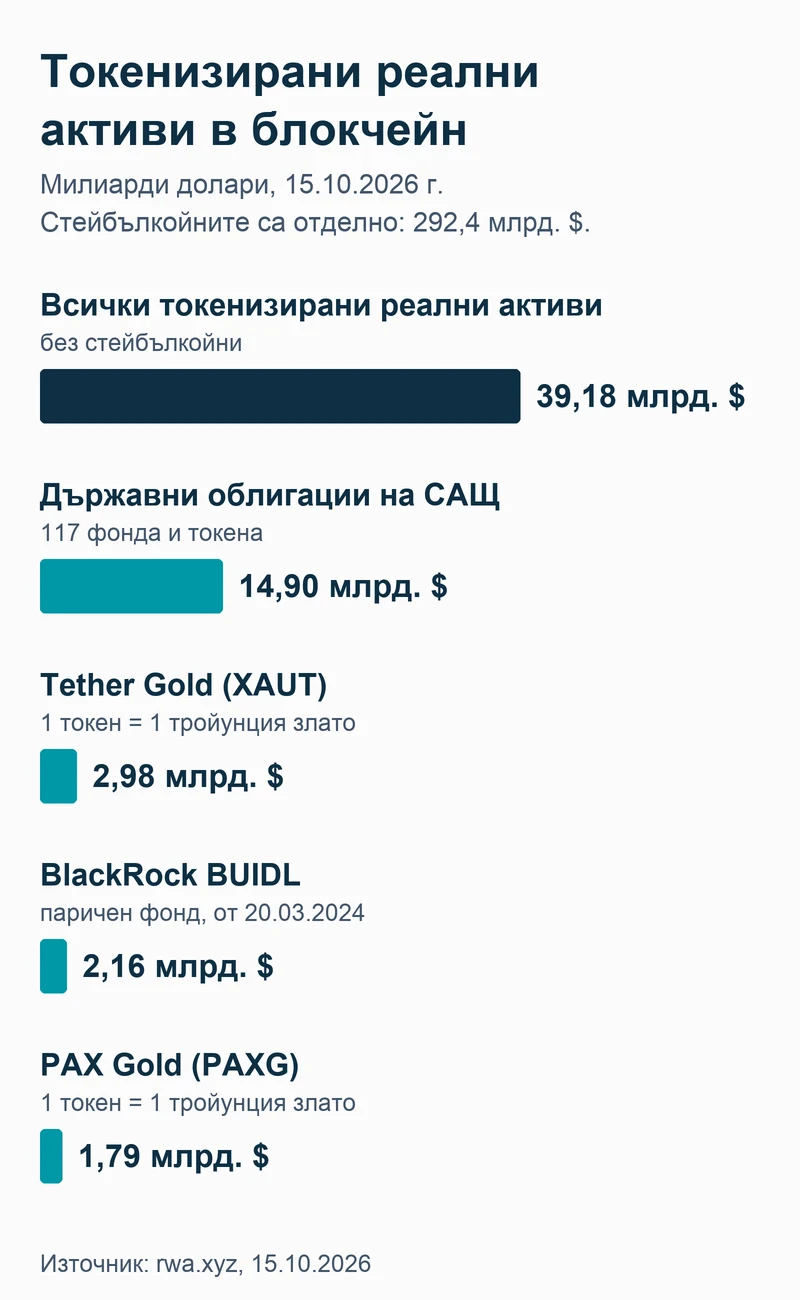
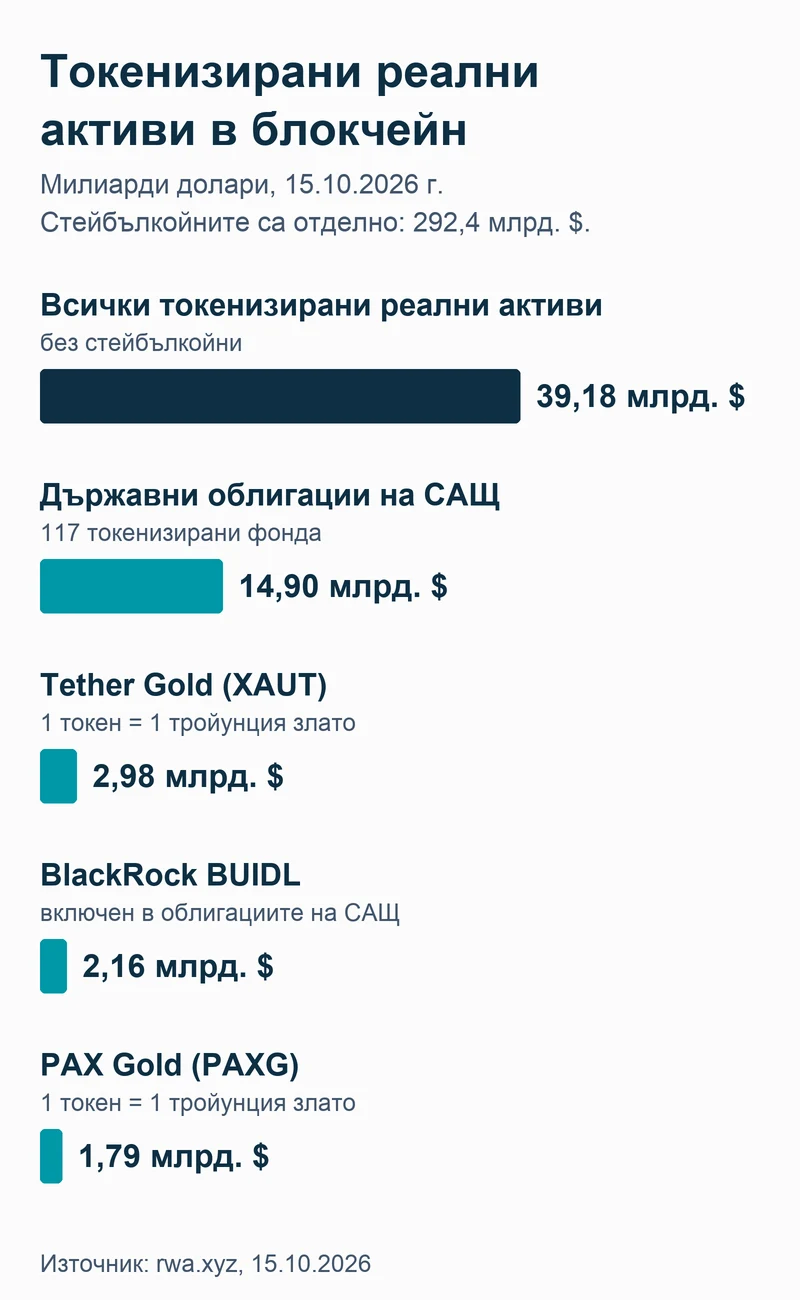
Preview: tokenization review fixes

Changed region(s): [[0.0625, 0.6769, 0.5, 0.7077], [0.0938, 0.4, 0.4062, 0.4308]]

diff --git a/bg-tokenizatsia/index.html b/bg-tokenizatsia/index.html
@@ -61,7 +61,7 @@
 
 <meta name="viewport" content="width=device-width, initial-scale=1">
 <!-- Search Engine Optimization by Rank Math - https://rankmath.com/ -->
-<title>Токенизация: какво е и как работи | Токенизация</title>
+<title>Токенизация</title>
 <meta name="description" content="Интелигентните договори са програми, съхранявани в блокчейна, които се изпълняват при изпълнение на предварително определени условия."/>
 
 <meta property="og:locale" content="bg-BG" />
@@ -2317,14 +2317,14 @@ font-family: "Montserrat";
 	<div class="inside-article">
 		<nav aria-label="breadcrumbs" class="rank-math-breadcrumb"><p><a href="https://ecoinomy.eu/bg/"></a><span class="separator"> - </span><a href="https://ecoinomy.eu/bg/kriptovaluti/">Kриптовалути</a><span class="separator"> - </span><a href="https://ecoinomy.eu/bg/kriptovaluti/znania/">Знания</a><span class="separator"> - </span><span class="last">Токенизация</span></p></nav>
 			<header class="entry-header">
-				<h1 class="entry-title" itemprop="headline">Токенизация: какво е и как работи токенизацията на активи</h1>			</header>
+				<h1 class="entry-title" itemprop="headline">Токенизация на активи: какво е и как работи</h1>			</header>
 
 			<div class="author-and-date" style="display: flex; justify-content: space-between; margin-bottom: 20px;"><div style="display: flex; padding-left: 0px;"><span class="author-avatar"><img data-del="avatar" src='https://ecoinomy.eu/wp-content/uploads/2024/04/cropped-ecoinomy-face-512x512-1-150x150.png' class='avatar pp-user-avatar avatar-55 photo ' height='55' width='55'/></span><div style="display: flex; flex-direction: column; margin-left: 0px;"><div style="height: 1px; background: linear-gradient(to right, #005a70, #ffffff);"></div><div style="padding-top: 2.5px; padding-left: 10px; "><a href="https://ecoinomy.eu/bg/za-nas/">Редакцията на Ecoinomy</a>, <span style="font-size: 12px; font-weight: 600; color: #a2cbc7"></span></div><div style="padding-top: 3px; padding-left: 10px; padding-bottom: 0px; font-size: 12px; color: #005a70">Последна актуализация: 16 октомври, 2026</div><div style="height: 1px; background: linear-gradient(to right, #005a70, #ffffff);"></div></div></div></div>
 		<div class="entry-content" itemprop="text"><p class="geo-meta"><em>Публикувано на 16.10.2026 · Написано и проверено от <a href="https://ecoinomy.eu/bg/za-nas/">редакцията на Ecoinomy</a> · Данните са от rwa.xyz, ЕЦБ, ESMA и EUR-Lex, проверени на 16 октомври 2026 г.</em></p>
 
-<p>Токенизацията е превръщане на права върху актив, например дял от сграда, облигация или злато, в цифров токен, записан в блокчейн. Токенът може да се купува, продава и прехвърля по всяко време и на малки части. Към 15 октомври 2026 г. в публичните блокчейни са токенизирани реални активи за около 39 млрд. долара, най-вече държавни облигации на САЩ.</p>
+<p>Токенизацията е превръщане на права върху актив, например дял от сграда, облигация или злато, в цифров токен, записан в блокчейн. Токенът може да се купува, продава и прехвърля по всяко време и на малки части. Към 15 октомври 2026 г. в публичните блокчейни са токенизирани реални активи за около 39 млрд. долара, като най-голям е делът на държавните облигации на САЩ.</p>
 
-<p>Думата има и още две значения. При плащане с телефон токенизацията заменя номера на картата ви с друг код, а в изкуствения интелект означава разделяне на текста на части, които моделът обработва. По-долу обясняваме и трите, но основно токенизацията на активи.</p>
+<p>Думата има и още две значения. При плащане с телефон токенизацията заменя номера на картата ви с друг код, а в изкуствения интелект означава разделяне на текста на части, които моделът обработва. По-долу са и трите значения, но акцентът е върху токенизацията на активи.</p>
 
 
 
@@ -2349,28 +2349,28 @@ font-family: "Montserrat";
 </ul>
 
 <h2>Как работи токенизацията на активи?</h2>
-<p>Собственикът на актива го прехвърля в дружество или фонд, а дружеството издава токени, всеки от които дава права върху част от актива. Токените се записват в блокчейн чрез интелигентен договор, а самият актив стои при попечител.</p>
+<p>Собственикът на актива го прехвърля в дружество или фонд, а дружеството издава токени, всеки от които дава права, свързани с част от актива. Токените се записват в блокчейн чрез интелигентен договор, а самият актив стои при попечител.</p>
 <ol>
 <li><strong>Изберете актива:</strong> облигация, дял от фонд, злато в трезор или имот.</li>
-<li><strong>Правна структура:</strong> най-често се създава отделно дружество или фонд, който притежава актива. Купувачът на токен получава права към това дружество, не нотариален акт.</li>
+<li><strong>Правна структура:</strong> най-често се създава отделно дружество или фонд, който притежава актива. Купувачът на токен получава права към това дружество, а не нотариален акт.</li>
 <li><strong>Издаване на токените:</strong> <a href="https://ecoinomy.eu/bg/kriptovaluti/znania/inteligentni-dogovori/">интелигентен договор</a> създава определен брой токени и ги разпределя.</li>
 <li><strong>Проверка на купувачите:</strong> при ценни книжа в договора се записва списък с проверени инвеститори и токенът може да отива само при тях.</li>
 <li><strong>Търговия и сетълмент:</strong> токените се прехвърлят за минути, по всяко време на денонощието.</li>
 <li><strong>Изплащане:</strong> лихвите, наемите или дивидентите се изплащат на притежателите на токени, а при обратно изкупуване токените се унищожават.</li>
 </ol>
-<p>Европейската централна банка описва токенизацията като издаване или представяне на активи под формата на цифрови токени, обикновено в мрежи с разпределен регистър (DLT). Според нея технологията може да направи сделките по-бързи, като обединява издаването, търговията, сетълмента и попечителството в един процес.</p>
+<p><a href="https://www.ecb.europa.eu/press/pr/date/2026/html/ecb.pr260921~e754847a7b.bg.html" target="_blank" rel="noopener">Европейската централна банка</a> описва токенизацията като издаване или представяне на активи под формата на цифрови токени, обикновено в мрежи с разпределен регистър (DLT). Според нея на пазарите на едро технологията може да направи сделките по-бързи, като обединява издаването, търговията, сетълмента и попечителството в един процес.</p>
 
 <h2 class="geo-takeaways">Какво да запомните</h2>
 <ul>
 <li>Токенизацията превръща права върху актив в цифров токен в блокчейн; самият актив остава при попечител или в дружество.</li>
-<li>Към 15 октомври 2026 г. токенизираните реални активи в публичните блокчейни са около 39,2 млрд. долара, а стейбълкойните още 292,4 млрд. долара (rwa.xyz).</li>
-<li>Най-големият сегмент са токенизираните държавни облигации на САЩ: 14,9 млрд. долара в 117 фонда и токена.</li>
-<li>В ЕС токените, които са ценни книжа, попадат под MiFID II и пилотния режим за DLT, а останалите криптоактиви под MiCA.</li>
-<li>На 21 септември 2026 г. Евросистемата пусна Pontes, услуга за сетълмент на токенизирани активи в пари на централната банка.</li>
+<li>Към 15 октомври 2026 г. токенизираните реални активи в публичните блокчейни са около 39,2 млрд. долара, а стейбълкойните са още 292,4 млрд. долара (rwa.xyz).</li>
+<li>Най-големият сегмент са токенизираните държавни облигации на САЩ: 14,9 млрд. долара в 117 токенизирани фонда.</li>
+<li>В ЕС токените, които са ценни книжа, следват правилата за финансовите инструменти (MiFID II), а останалите криптоактиви регламента MiCA.</li>
+<li>На 21 септември 2026 г. Евросистемата пусна Pontes, услуга за сетълмент на сделки на едро с токенизирани активи в пари на централната банка.</li>
 </ul>
 
 <h2>Колко активи са токенизирани днес?</h2>
-<p>Към 15 октомври 2026 г. в публичните блокчейни има токенизирани реални активи за 39,18 млрд. долара, без стейбълкойните. Най-голям дял имат държавните облигации на САЩ с 14,90 млрд. долара, следвани от златото и паричните фондове.</p>
+<p>Към 15 октомври 2026 г. в публичните блокчейни има токенизирани реални активи за 39,18 млрд. долара, без стейбълкойните. Най-голям е делът на държавните облигации на САЩ с 14,90 млрд. долара, следвани от златото.</p>
 <img class="aligncenter size-full eco-only-d" src="https://deanooooooooo.github.io/ecoinomy-home-preview/bg-tokenizatsia/img/tokenizatsia-aktivi-rwa.webp" alt="Графика: токенизирани реални активи на 15.10.2026: общо 39,18 млрд. долара, държавни облигации на САЩ 14,90, Tether Gold 2,98, BlackRock BUIDL 2,16 и PAX Gold 1,79 млрд. долара" width="1600" height="900" loading="lazy" />
 <img class="aligncenter size-full eco-only-m" src="https://deanooooooooo.github.io/ecoinomy-home-preview/bg-tokenizatsia/img/tokenizatsia-aktivi-rwa-mobile.webp" alt="Графика: токенизирани реални активи на 15.10.2026: общо 39,18 млрд. долара, държавни облигации на САЩ 14,90, Tether Gold 2,98, BlackRock BUIDL 2,16 и PAX Gold 1,79 млрд. долара" width="800" height="1300" loading="lazy" />
 <table>
@@ -2379,63 +2379,64 @@ font-family: "Montserrat";
 </thead>
 <tbody>
 <tr><td>Всички токенизирани реални активи</td><td>39,18 млрд. $</td><td>Облигации, фондове, злато, кредити, акции и други</td></tr>
-<tr><td>Държавни облигации на САЩ</td><td>14,90 млрд. $</td><td>117 фонда и токена с американски държавни ценни книжа</td></tr>
+<tr><td>Държавни облигации на САЩ</td><td>14,90 млрд. $</td><td>117 токенизирани фонда с американски държавни ценни книжа</td></tr>
 <tr><td>Tether Gold (XAUT)</td><td>2,98 млрд. $</td><td>Злато: 1 токен = 1 тройунция</td></tr>
-<tr><td>BlackRock BUIDL</td><td>2,16 млрд. $</td><td>Паричен фонд на BlackRock, пуснат на 20 март 2024 г.</td></tr>
+<tr><td>BlackRock BUIDL (включен в облигациите на САЩ)</td><td>2,16 млрд. $</td><td>Паричен фонд на BlackRock, пуснат на 20 март 2024 г.</td></tr>
 <tr><td>PAX Gold (PAXG)</td><td>1,79 млрд. $</td><td>Злато: 1 токен = 1 тройунция</td></tr>
 <tr><td>Стейбълкойни (за сравнение)</td><td>292,4 млрд. $</td><td>Долари и евро в банки и краткосрочни облигации</td></tr>
 </tbody>
 </table>
 <p>Данните са от <a href="https://app.rwa.xyz/" target="_blank" rel="noopener">rwa.xyz</a> към 15 октомври 2026 г. и показват само активите, които могат да се прехвърлят в публични блокчейни. Платформата отчита отделно още 352,65 млрд. долара активи, които са само „представени“ в блокчейн, без токените да се търгуват свободно. Сумите се променят всеки ден.</p>
 
-<h2>Токенизация на имоти: какво реално купувате?</h2>
+<h2>Имоти: какво реално купувате с токена?</h2>
 <p>Когато купите токен на имот, обикновено не ставате собственик на част от сградата, а на дял в дружество, което я притежава. Правата ви зависят от документите на емисията: дали получавате наем, можете ли да гласувате и кой пази нотариалния акт.</p>
-<p>Да вземем пример. Сграда за 500 000 € е прехвърлена в дружество, а дружеството издава 100 токена по 5 000 €. С два токена притежавате 2% от дружеството и получавате 2% от наема след разходите за управление. Ако дружеството фалира или управителят изчезне, токенът е толкова сигурен, колкото и договорът зад него. Блокчейнът доказва, че токенът е ваш, но не и че сградата съществува.</p>
-<p>Първите големи примери са от 2018 г. Курортът St. Regis Aspen продаде 18,9% от себе си чрез токени по 1 долар за общо 18 млн. долара, само на акредитирани инвеститори, както съобщава <a href="https://www.aspentimes.com/news/local/in-18-million-deal-nearly-one-fifth-of-st-regis-aspen-sells-through-digital-tokens" target="_blank" rel="noopener">Aspen Times</a>. Същата година жилищна сграда в Манхатън, оценена на около 30 млн. долара, беше обявена за токенизиране в Ethereum.</p>
+<p>Ето един условен пример. Сграда за 500 000 € е прехвърлена в дружество, а дружеството издава 100 токена по 5 000 €. С два токена притежавате 2% от дружеството и получавате 2% от наема след разходите за управление. Ако дружеството фалира или управителят изчезне, токенът е толкова сигурен, колкото и договорът зад него. Блокчейнът доказва, че токенът е ваш, но не и че сградата съществува.</p>
+<p>Един от първите примери е от 2018 г.: хотелът St. Regis Aspen в САЩ продаде чрез токени по 1 долар 18,9% от собствеността си за общо 18 млн. долара, и то само на акредитирани инвеститори, както съобщава <a href="https://www.aspentimes.com/news/local/in-18-million-deal-nearly-one-fifth-of-st-regis-aspen-sells-through-digital-tokens" target="_blank" rel="noopener">Aspen Times</a>.</p>
 <figure><img class="aligncenter size-full" src="https://deanooooooooo.github.io/ecoinomy-home-preview/bg-tokenizatsia/img/tokenizatsia-imot-dyalove.webp" alt="Жилищна сграда по залез и ръка с телефон, на чийто екран кръгова диаграма е разделена на много равни дялове" width="1536" height="1024" loading="lazy" /><figcaption>При токенизация на имот купувате дял в дружеството, което притежава сградата, а не директно квадратни метри.</figcaption></figure>
 
-<h2>Токенизирано злато: PAX Gold и Tether Gold</h2>
-<p>При токенизираното злато всеки токен PAX Gold (PAXG) или Tether Gold (XAUT) отговаря на една тройунция злато в трезор. Цената на токена следва цената на златото: на 15 октомври 2026 г. и двата струваха около 4 160 долара.</p>
-<p>Към 15 октомври 2026 г. токените Tether Gold са за 2,98 млрд. долара, а PAX Gold за 1,79 млрд. долара. Предимството спрямо физическото кюлче е, че можете да купите и малка част от унция и да я прехвърлите за минути. Минусът е, че разчитате на емитента да държи златото и да ви го изплати. Ако купувате такъв токен, правете го през доставчик в регистъра на ESMA по MiCA; сравнение има в класацията ни на <a href="https://ecoinomy.eu/bg/kriptovaluti/borsi/">крипто борсите с лиценз по MiCA</a>.</p>
+<h2>Злато в блокчейн: PAX Gold и Tether Gold</h2>
+<p>При токенизираното злато всеки токен PAX Gold (PAXG) или Tether Gold (XAUT) отговаря на една тройунция злато в трезор. Цената на токена следва цената на златото: на 15 октомври 2026 г. и двата струваха около 4 160 долара според CoinGecko.</p>
+<p>Към 15 октомври 2026 г. токените Tether Gold са за 2,98 млрд. долара, а PAX Gold за 1,79 млрд. долара. Предимството пред физическото кюлче е, че можете да купите и малка част от унция и да я прехвърлите за минути. Минусът е, че разчитате на емитента да държи златото и да ви го изплати. Ако купувате такъв токен, изберете доставчик, вписан във <a href="https://www.esma.europa.eu/sites/default/files/2024-12/CASPS.csv" target="_blank" rel="noopener">временния регистър на ESMA по MiCA</a>. Сравнение на борсите с лиценз по MiCA има в <a href="https://ecoinomy.eu/bg/kriptovaluti/borsi/">нашата класация</a>.</p>
 <figure><img class="aligncenter size-full" src="https://deanooooooooo.github.io/ecoinomy-home-preview/bg-tokenizatsia/img/tokenizatsia-zlato-telefon.webp" alt="Три златни кюлчета до смартфон с графика на екрана върху тъмносин фон" width="1536" height="1024" loading="lazy" /><figcaption>Един токен PAX Gold или Tether Gold отговаря на една тройунция злато в трезора на емитента.</figcaption></figure>
 
-<h2>Токенизирани облигации и фондове в Европа и САЩ</h2>
-<p>Най-бързо се токенизират облигации и парични фондове, защото правата по тях са ясни и лесни за записване в код. Големите емитенти вече го правят: Европейската инвестиционна банка, Siemens, BlackRock и Franklin Templeton.</p>
+<h2>Облигации и фондове в блокчейн: ЕИБ, Siemens, BlackRock</h2>
+<p>Облигациите и паричните фондове са най-големият сегмент на токенизираните активи. Големите емитенти вече ги издават в блокчейн: Европейската инвестиционна банка, Siemens, BlackRock и Franklin Templeton.</p>
 <ul>
-<li><strong>Европейска инвестиционна банка, „Проект Венера“:</strong> на 29 ноември 2022 г. ЕИБ издаде двугодишна цифрова облигация за 100 млн. € с купон 2,507%, първата в евро в частен блокчейн, по <a href="https://www.eib.org/en/press/all/2022-448-eib-innovates-further-with-project-venus-the-first-euro-denominated-digital-bond-on-a-private-blockchain" target="_blank" rel="noopener">съобщението на ЕИБ</a>.</li>
-<li><strong>Siemens:</strong> през февруари 2023 г. издаде цифрова облигация за 60 млн. € с падеж една година, в публичен блокчейн, по германския закон за електронните ценни книжа (<a href="https://press.siemens.com/global/en/pressrelease/siemens-issues-first-digital-bond-blockchain" target="_blank" rel="noopener">съобщение на Siemens</a>).</li>
-<li><strong>BlackRock BUIDL:</strong> паричен фонд в Ethereum от 20 март 2024 г., който на 15 октомври 2026 г. управлява около 2,16 млрд. долара.</li>
-<li><strong>Franklin Templeton BENJI:</strong> от 2021 г. фондът ползва публичен блокчейн като официален регистър на дяловете.</li>
+<li><strong>Европейска инвестиционна банка, Project Venus:</strong> на 29 ноември 2022 г. ЕИБ издаде двугодишна цифрова облигация за 100 млн. € с купон 2,507%, първата в евро в частен блокчейн, според <a href="https://www.eib.org/en/press/all/2022-448-eib-innovates-further-with-project-venus-the-first-euro-denominated-digital-bond-on-a-private-blockchain" target="_blank" rel="noopener">съобщението на ЕИБ</a>.</li>
+<li><strong>Siemens:</strong> през февруари 2023 г. издаде цифрова облигация за 60 млн. € с падеж една година, в публичен блокчейн, по германския закон за електронните ценни книжа, и я продаде директно на инвеститори, без банка-посредник (<a href="https://press.siemens.com/global/en/pressrelease/siemens-issues-first-digital-bond-blockchain" target="_blank" rel="noopener">съобщение на Siemens</a>).</li>
+<li><strong>BlackRock BUIDL:</strong> паричен фонд в Ethereum от 20 март 2024 г., който на 15 октомври 2026 г. управлява около 2,16 млрд. долара (rwa.xyz).</li>
+<li><strong>Franklin Templeton BENJI:</strong> по данни на Franklin Templeton от 2021 г. фондът ползва публичен блокчейн като официален регистър на дяловете си.</li>
 </ul>
 
-<h2>Стейбълкойните: най-голямата токенизация досега</h2>
+<h2>Стейбълкойните: цифрови долари и евро</h2>
 <p>Стейбълкойните са токенизирани пари: всеки токен USDT, USDC или EURC трябва да е покрит с долар или евро в банка или в краткосрочни облигации. Към 15 октомври 2026 г. стейбълкойните са за 292,4 млрд. долара, над седем пъти повече от всички други токенизирани активи.</p>
-<p>Най-големите са USDT със 183,0 млрд. долара и USDC със 70,9 млрд. долара (rwa.xyz, 15.10.2026). Стейбълкойните в евро са далеч по-малко: около 739 млн. € общо, от които EURC около 498 млн. €. В ЕС стейбълкойните, свързани с една валута, са токени за електронни пари по MiCA и емитентът им трябва да има лиценз.</p>
+<p>Най-големите са USDT със 183,0 млрд. долара и USDC със 70,9 млрд. долара (rwa.xyz, 15.10.2026). Стейбълкойните в евро са далеч по-малко: около 739 млн. € общо, от които EURC около 498 млн. € (DefiLlama, 14-15.10.2026). В ЕС стейбълкойните, свързани с една валута, са токени за електронни пари по MiCA и емитентът им трябва да има лиценз.</p>
 
 <h2>Как се регулира токенизацията в ЕС и България?</h2>
-<p>В ЕС правилата зависят от това какво представлява токенът. Ако е ценна книга, важат правилата за финансовите инструменти (MiFID II) и пилотният режим за DLT. Ако е стейбълкойн или друг криптоактив, важи регламентът MiCA. Уникалните NFT не попадат под MiCA.</p>
+<p>В ЕС правилата зависят от това какво представлява токенът. Ако е ценна книга, важат правилата за финансовите инструменти (MiFID II); пилотният режим за DLT е по избор и важи само за лицензирани DLT инфраструктури. Ако е стейбълкойн или друг криптоактив, важи регламентът MiCA. Уникалните NFT не попадат под MiCA.</p>
 <table>
 <thead>
 <tr><th>Вид токен</th><th>Пример</th><th>Закон в ЕС</th><th>Надзор в България</th></tr>
 </thead>
 <tbody>
-<tr><td>Токен, който е ценна книга (акция, облигация, дял от фонд)</td><td>Цифрова облигация на ЕИБ</td><td>MiFID II и <a href="https://www.esma.europa.eu/esmas-activities/digital-finance-and-innovation/dlt-pilot-regime" target="_blank" rel="noopener">пилотният режим за DLT</a> (Регламент 2022/858)</td><td>КФН</td></tr>
+<tr><td>Токен, който е ценна книга (акция, облигация, дял от фонд)</td><td>Цифрова облигация на ЕИБ</td><td>MiFID II; по избор <a href="https://www.esma.europa.eu/esmas-activities/digital-finance-and-innovation/dlt-pilot-regime" target="_blank" rel="noopener">пилотният режим за DLT</a> (Регламент 2022/858)</td><td>КФН</td></tr>
 <tr><td>Токен за електронни пари</td><td>EURC, USDC</td><td>MiCA, от 30 юни 2024 г.</td><td>БНБ, ако емитентът е българска банка или дружество за електронни пари</td></tr>
-<tr><td>Токен, обезпечен с активи</td><td>Токен, свързан с кошница от валути или злато</td><td>MiCA, от 30 юни 2024 г.</td><td>КФН</td></tr>
+<tr><td>Токен, обезпечен с активи</td><td>Токен, свързан с кошница от валути или злато</td><td>MiCA, от 30 юни 2024 г.</td><td>КФН; БНБ, ако издателят е банка</td></tr>
 <tr><td>Други криптоактиви</td><td>Биткойн, утилити токени</td><td>MiCA, от 30 декември 2024 г.</td><td>КФН</td></tr>
-<tr><td>Уникални NFT</td><td>Цифрово изкуство</td><td>Извън MiCA</td><td>Общите правила за потребителите</td></tr>
+<tr><td>Уникални NFT</td><td>Цифрово изкуство</td><td>Извън MiCA</td><td>Няма специален надзор</td></tr>
 </tbody>
 </table>
-<p>Пилотният режим за DLT (<a href="https://eur-lex.europa.eu/legal-content/BG/TXT/?uri=CELEX:32022R0858" target="_blank" rel="noopener">Регламент (ЕС) 2022/858</a>) се прилага от 23 март 2023 г. Той позволява борси и системи за сетълмент на токенизирани ценни книжа, но с лимити, например до 500 млн. € пазарна капитализация за акциите. Според <a href="https://www.esma.europa.eu/sites/default/files/2025-06/ESMA75-117376770-460_Report_on_the_functioning_and_review_of_the_DLTR_-_Art.14.pdf" target="_blank" rel="noopener">доклада на ESMA</a> от юни 2025 г. до 31 май 2025 г. в целия ЕС има само три такива инфраструктури, с минимална търговия.</p>
+<p>Пилотният режим за DLT (<a href="https://eur-lex.europa.eu/legal-content/BG/TXT/?uri=CELEX:32022R0858" target="_blank" rel="noopener">Регламент (ЕС) 2022/858</a>) се прилага от 23 март 2023 г. Той позволява борси и системи за сетълмент на токенизирани ценни книжа, но с лимити, например до 500 млн. € пазарна капитализация за акциите. Според <a href="https://www.esma.europa.eu/sites/default/files/2025-06/ESMA75-117376770-460_Report_on_the_functioning_and_review_of_the_DLTR_-_Art.14.pdf" target="_blank" rel="noopener">доклада на ESMA</a> от юни 2025 г. към 31 май 2025 г. в целия ЕС има само три такива инфраструктури, с минимална търговия.</p>
 <p>Регламентът MiCA (<a href="https://eur-lex.europa.eu/legal-content/BG/TXT/?uri=CELEX:32023R1114" target="_blank" rel="noopener">Регламент (ЕС) 2023/1114</a>) не обхваща криптоактивите, които са финансови инструменти. В България прилагането му е уредено със Закона за пазарите на криптоактиви от юли 2025 г., а надзорът е при Комисията за финансов надзор (<a href="https://www.fsc.bg/en/legal-framework/markets-in-crypto-assets-regulation-micar" target="_blank" rel="noopener">страницата на КФН за MiCAR</a>). Повече за правилата има в статията ни за <a href="https://ecoinomy.eu/bg/bitcoin/vavedenie/regulatsia-mica/">регулацията MiCA</a>.</p>
-<p>Централните банки също се включват. На 21 септември 2026 г. Евросистемата пусна <a href="https://www.ecb.europa.eu/press/pr/date/2026/html/ecb.pr260921~e754847a7b.bg.html" target="_blank" rel="noopener">Pontes</a>, услуга, с която сделки с токенизирани активи между банки се плащат в пари на централната банка.</p>
+<p>Централните банки също се включват. На 21 септември 2026 г. Евросистемата пусна <a href="https://www.ecb.europa.eu/press/pr/date/2026/html/ecb.pr260921~e754847a7b.bg.html" target="_blank" rel="noopener">Pontes</a>, услуга, с която сделки на едро с токенизирани активи се плащат в пари на централната банка.</p>
 
-<h2>Какви са предимствата и рисковете на токенизацията?</h2>
+<h2>Какви са предимствата и рисковете?</h2>
 <p>Токенизацията прави активите делими, прехвърляеми по всяко време и по-евтини за обслужване. Рисковете са в правата зад токена, в попечителя и в кода: блокчейнът пази записа, но не гарантира, че активът съществува или че ще го получите.</p>
 <h3>Предимства</h3>
 <ul>
 <li>Делимост: можете да купите малка част от облигация, фонд или злато.</li>
 <li>Скорост: прехвърлянето и сетълментът стават за минути, а не за дни.</li>
+<li>По-малко посредници: Siemens продаде цифровата си облигация директно на инвеститори, без банка-посредник и без хартиен глобален сертификат.</li>
 <li>Прозрачност: всяко прехвърляне се вижда в блокчейна.</li>
 <li>Автоматизация: лихвите и изплащанията могат да се изпълняват от интелигентен договор.</li>
 </ul>
@@ -2450,15 +2451,15 @@ font-family: "Montserrat";
 
 <h2>Може ли да инвестирате в токенизирани активи от България?</h2>
 <p>Да, но изборът за непрофесионални инвеститори е малък. Най-достъпни са стейбълкойните и токенизираното злато през борси с лиценз по MiCA. Повечето токенизирани облигации и фондове, като BUIDL, се предлагат само на професионални инвеститори.</p>
-<p>Преди да купите, проверете кой е емитентът, какво право ви дава токенът и дали доставчикът е в регистъра на ESMA по MiCA или има лиценз за инвестиционни услуги. Печалбата от продажба на криптоактиви се облага с 10% след приспадане на 10% нормативни разходи, както описва <a href="https://nra.bg/wps/portal/nra/taxes/godishen-danak-varhu-dohdite/prodazhba-na-imushtestvo" target="_blank" rel="noopener">НАП</a>. Ако държите токените дълго, помислете за <a href="https://ecoinomy.eu/bg/bitcoin/portfeyl/nay-dobrite-kripto-harduerni-portfeyli/">хардуерен портфейл</a>, но проверете дали токенът позволява прехвърляне към собствен портфейл.</p>
+<p>Преди да купите, проверете кой е емитентът, какво право ви дава токенът и дали доставчикът е в регистъра на ESMA по MiCA или има лиценз за инвестиционни услуги. Годишният резултат от сделки с криптоактиви (печалбите минус загубите) се намалява с 10% нормативни разходи, както описва <a href="https://nra.bg/wps/portal/nra/taxes/godishen-danak-varhu-dohdite/prodazhba-na-imushtestvo" target="_blank" rel="noopener">НАП</a>, и се облага с 10% данък по чл. 48 от <a href="https://lex.bg/laws/ldoc/2135538631" target="_blank" rel="noopener">ЗДДФЛ</a>. Ако държите токените дълго, помислете за <a href="https://ecoinomy.eu/bg/bitcoin/portfeyl/nay-dobrite-kripto-harduerni-portfeyli/">хардуерен портфейл</a>, но проверете дали токенът позволява прехвърляне към собствен портфейл.</p>
 
 <h2>Какво е токенизация на карта?</h2>
-<p>Токенизацията на карта заменя 16-цифрения номер на банковата ви карта с друг код, токен, който работи само на едно устройство или при един търговец. Така Apple Pay, Google Pay и онлайн магазините не пазят истинския номер на картата ви.</p>
-<p>Стандартът е на <a href="https://www.emvco.com/emv-technologies/payment-tokenisation/" target="_blank" rel="noopener">EMVCo</a>, организацията зад чиповете в картите: токенът е ограничен до конкретно устройство, търговец или вид плащане. Ако изгубите телефона, банката спира токена, без да сменя картата. Обратното преобразуване е невъзможно без системата на банката, затова откраднат токен не разкрива номера на картата.</p>
+<p>Токенизацията на карта заменя номера на банковата ви карта (обикновено 16 цифри) с друг код, токен, който работи само на едно устройство или при един търговец. Така Apple Pay, Google Pay и онлайн магазините не пазят истинския номер на картата ви.</p>
+<p>Стандартът е на <a href="https://www.emvco.com/emv-technologies/payment-tokenisation/" target="_blank" rel="noopener">EMVCo</a>, организацията, която поддържа стандарта EMV за чипови карти: токенът е ограничен до конкретно устройство, търговец или вид плащане. Ако изгубите телефона, банката спира токена, без да сменя картата. Обратното преобразуване е невъзможно без системата на издателя или на картовата мрежа, затова откраднат токен не разкрива номера на картата.</p>
 
 <h2>Какво е токенизация в изкуствения интелект?</h2>
 <p>В изкуствения интелект токенизацията е първата стъпка в обработката на текст: текстът се разделя на части, наречени токени. Те може да са цели думи, части от думи или знаци, а моделът брои и обработва именно тях.</p>
-<p>Определението в учебника по извличане на информация на <a href="https://nlp.stanford.edu/IR-book/html/htmledition/tokenization-1.html" target="_blank" rel="noopener">Станфордския университет</a> е: задачата да се нарязва последователност от знаци на части, наречени токени. Затова цените на езиковите модели често са „на токен“, а дълга дума на български може да се окаже два или три токена.</p>
+<p>Определението в учебника по извличане на информация на <a href="https://nlp.stanford.edu/IR-book/html/htmledition/tokenization-1.html" target="_blank" rel="noopener">Станфордския университет</a> е: задачата да се раздели последователност от знаци на части, наречени токени. Цените на езиковите модели често са „на токен“, а дълга дума на български може да се окаже два или три токена.</p>
 
 <h2 class="geo-faq">Често задавани въпроси за токенизацията</h2>
 <h3>Какво е токенизация?</h3>
@@ -2468,16 +2469,16 @@ font-family: "Montserrat";
 <h3>Кои активи могат да се токенизират?</h3>
 <p>Почти всеки актив с ясен собственик: облигации, дялове от фондове, акции, злато, имоти, кредити, произведения на изкуството и права върху интелектуална собственост. Най-много са токенизирани държавните облигации на САЩ и златото.</p>
 <h3>Може ли токенизираната информация да се върне обратно?</h3>
-<p>При картовите плащания токенът не съдържа номера на картата и не може да се преобразува обратно без системата на банката. При токенизацията на активи токенът може да се изкупи обратно от емитента и да се унищожи, а вие да получите актива или парите.</p>
+<p>При картовите плащания токенът не съдържа номера на картата и не може да се преобразува обратно без системата на издателя или на картовата мрежа. При токенизацията на активи токенът може да се изкупи обратно от емитента и да се унищожи, а вие да получите актива или парите.</p>
 <h3>Може ли токенизацията да бъде хакната?</h3>
 <p>Блокчейнът е трудно да се промени, но могат да бъдат хакнати интелигентният договор, портфейлът ви или борсата. По-голям риск е емитентът: ако не държи актива или фалира, токенът губи стойност, колкото и сигурен да е записът.</p>
 <h3>Законна ли е токенизацията в България?</h3>
-<p>Да. Токените, които са ценни книжа, следват правилата за финансовите инструменти, а останалите криптоактиви регламента MiCA и Закона за пазарите на криптоактиви. Надзорът в България е при Комисията за финансов надзор.</p>
+<p>Да, но няма отделен закон за токенизацията. Токените, които са ценни книжа, следват правилата за финансовите инструменти, а останалите криптоактиви следват регламента MiCA и Закона за пазарите на криптоактиви. Надзорът в България е при Комисията за финансов надзор.</p>
 <h3>Каква е разликата между токенизация и NFT?</h3>
-<p>NFT е уникален токен, например за цифрово изкуство, и не може да се дели. При токенизацията на активи обикновено се издават много еднакви токени, всеки за част от актива. Уникалните NFT не попадат под MiCA, а токенизираните ценни книжа попадат под правилата за финансовите инструменти.</p>
-<script type="application/ld+json">{"@context": "https://schema.org", "@type": "FAQPage", "mainEntity": [{"@type": "Question", "name": "Какво е токенизация?", "acceptedAnswer": {"@type": "Answer", "text": "Токенизацията е превръщане на права върху актив, например облигация, злато или дял от имот, в цифров токен в блокчейн. Токенът може да се купува, продава и прехвърля на малки части и по всяко време. Думата се ползва и за картовите плащания и за изкуствения интелект."}}, {"@type": "Question", "name": "Какво означава токенизация на активи?", "acceptedAnswer": {"@type": "Answer", "text": "Токенизацията на активи означава, че реален актив се прехвърля в дружество или фонд, а правата върху него се записват като токени в блокчейн. Към 15 октомври 2026 г. токенизираните реални активи в публичните блокчейни са около 39 млрд. долара."}}, {"@type": "Question", "name": "Кои активи могат да се токенизират?", "acceptedAnswer": {"@type": "Answer", "text": "Почти всеки актив с ясен собственик: облигации, дялове от фондове, акции, злато, имоти, кредити, произведения на изкуството и права върху интелектуална собственост. Най-много са токенизирани държавните облигации на САЩ и златото."}}, {"@type": "Question", "name": "Може ли токенизираната информация да се върне обратно?", "acceptedAnswer": {"@type": "Answer", "text": "При картовите плащания токенът не съдържа номера на картата и не може да се преобразува обратно без системата на банката. При токенизацията на активи токенът може да се изкупи обратно от емитента и да се унищожи, а вие да получите актива или парите."}}, {"@type": "Question", "name": "Може ли токенизацията да бъде хакната?", "acceptedAnswer": {"@type": "Answer", "text": "Блокчейнът е трудно да се промени, но могат да бъдат хакнати интелигентният договор, портфейлът ви или борсата. По-голям риск е емитентът: ако не държи актива или фалира, токенът губи стойност, колкото и сигурен да е записът."}}, {"@type": "Question", "name": "Законна ли е токенизацията в България?", "acceptedAnswer": {"@type": "Answer", "text": "Да. Токените, които са ценни книжа, следват правилата за финансовите инструменти, а останалите криптоактиви регламента MiCA и Закона за пазарите на криптоактиви. Надзорът в България е при Комисията за финансов надзор."}}, {"@type": "Question", "name": "Каква е разликата между токенизация и NFT?", "acceptedAnswer": {"@type": "Answer", "text": "NFT е уникален токен, например за цифрово изкуство, и не може да се дели. При токенизацията на активи обикновено се издават много еднакви токени, всеки за част от актива. Уникалните NFT не попадат под MiCA, а токенизираните ценни книжа попадат под правилата за финансовите инструменти."}}]}</script>
+<p><a href="https://ecoinomy.eu/bg/kriptovaluti/znania/kakvo-e-nft/">NFT</a> е уникален токен, например за цифрово изкуство, и не може да се дели. При токенизацията на активи обикновено се издават много еднакви токени, всеки за част от актива. Уникалните NFT не попадат под MiCA, а токенизираните ценни книжа попадат под правилата за финансовите инструменти.</p>
+<script type="application/ld+json">{"@context": "https://schema.org", "@type": "FAQPage", "mainEntity": [{"@type": "Question", "name": "Какво е токенизация?", "acceptedAnswer": {"@type": "Answer", "text": "Токенизацията е превръщане на права върху актив, например облигация, злато или дял от имот, в цифров токен в блокчейн. Токенът може да се купува, продава и прехвърля на малки части и по всяко време. Думата се ползва и за картовите плащания и за изкуствения интелект."}}, {"@type": "Question", "name": "Какво означава токенизация на активи?", "acceptedAnswer": {"@type": "Answer", "text": "Токенизацията на активи означава, че реален актив се прехвърля в дружество или фонд, а правата върху него се записват като токени в блокчейн. Към 15 октомври 2026 г. токенизираните реални активи в публичните блокчейни са около 39 млрд. долара."}}, {"@type": "Question", "name": "Кои активи могат да се токенизират?", "acceptedAnswer": {"@type": "Answer", "text": "Почти всеки актив с ясен собственик: облигации, дялове от фондове, акции, злато, имоти, кредити, произведения на изкуството и права върху интелектуална собственост. Най-много са токенизирани държавните облигации на САЩ и златото."}}, {"@type": "Question", "name": "Може ли токенизираната информация да се върне обратно?", "acceptedAnswer": {"@type": "Answer", "text": "При картовите плащания токенът не съдържа номера на картата и не може да се преобразува обратно без системата на издателя или на картовата мрежа. При токенизацията на активи токенът може да се изкупи обратно от емитента и да се унищожи, а вие да получите актива или парите."}}, {"@type": "Question", "name": "Може ли токенизацията да бъде хакната?", "acceptedAnswer": {"@type": "Answer", "text": "Блокчейнът е трудно да се промени, но могат да бъдат хакнати интелигентният договор, портфейлът ви или борсата. По-голям риск е емитентът: ако не държи актива или фалира, токенът губи стойност, колкото и сигурен да е записът."}}, {"@type": "Question", "name": "Законна ли е токенизацията в България?", "acceptedAnswer": {"@type": "Answer", "text": "Да, но няма отделен закон за токенизацията. Токените, които са ценни книжа, следват правилата за финансовите инструменти, а останалите криптоактиви следват регламента MiCA и Закона за пазарите на криптоактиви. Надзорът в България е при Комисията за финансов надзор."}}, {"@type": "Question", "name": "Каква е разликата между токенизация и NFT?", "acceptedAnswer": {"@type": "Answer", "text": "NFT е уникален токен, например за цифрово изкуство, и не може да се дели. При токенизацията на активи обикновено се издават много еднакви токени, всеки за част от актива. Уникалните NFT не попадат под MiCA, а токенизираните ценни книжа попадат под правилата за финансовите инструменти."}}]}</script>
 
-<p class="geo-method"><strong>Как проверихме:</strong> на 15 и 16 октомври 2026 г. взехме стойностите на токенизираните активи и стейбълкойните от rwa.xyz и DefiLlama, датите и правилата от текстовете на MiCA и пилотния режим за DLT в EUR-Lex, доклада на ESMA от юни 2025 г. и съобщението на ЕЦБ за Pontes, а примерите от съобщенията на ЕИБ, Siemens и пресата от 2018 г. Сумите в блокчейн се променят всеки ден. Не сме купували токенизирани активи за тази статия.</p>
+<p class="geo-method"><strong>Как проверихме:</strong> на 15 и 16 октомври 2026 г. ползвахме стойностите на токенизираните активи и стейбълкойните от rwa.xyz и DefiLlama, датите и правилата от текстовете на MiCA и пилотния режим за DLT в EUR-Lex, доклада на ESMA от юни 2025 г. и съобщението на ЕЦБ за Pontes, а примерите от съобщенията на ЕИБ, Siemens и пресата от 2018 г. Сумите в блокчейн се променят всеки ден. Не сме купували токенизирани активи за тази статия.</p>
 </div>
 
 			</div>
